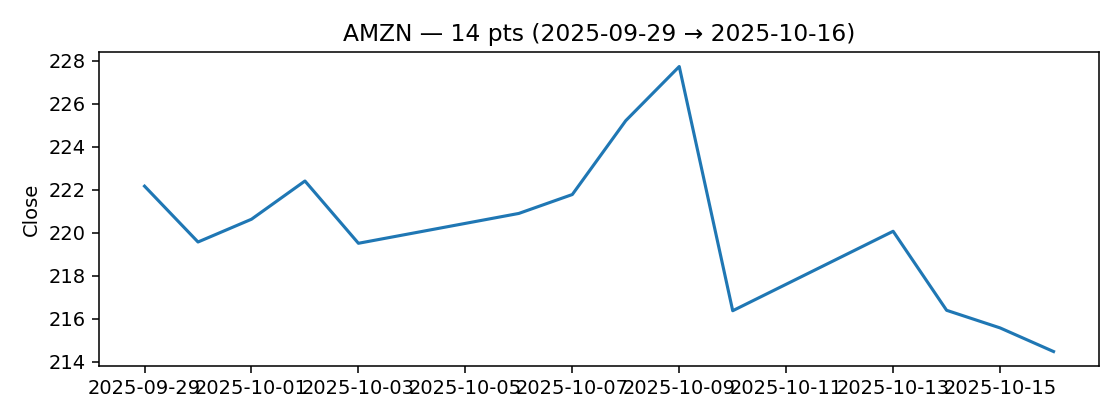
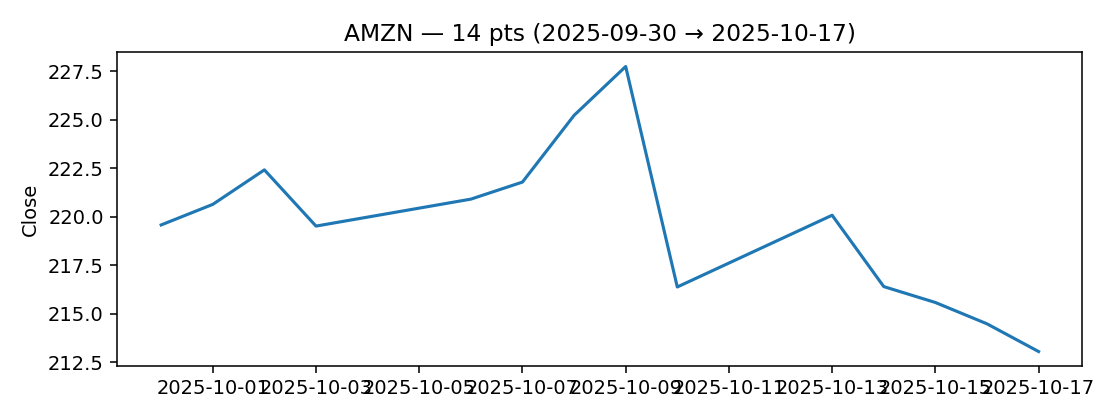
chore: update daily report 2025-10-18 08:37

diff --git a/docs/daily_report.html b/docs/daily_report.html
@@ -108,7 +108,7 @@
   <header>
     <div>
       <h1>Daily Study & News Companion</h1>
-      <div class="sub">2025-10-17 09:00 · TZ: CST</div>
+      <div class="sub">2025-10-18 08:37 · TZ: CST</div>
     </div>
     <button class="btn" id="themeBtn">🌓 Tema</button>
   </header>
@@ -150,11 +150,11 @@
           </div>
           <div class="mkt-body">
             <div class="metrics-row">
-          <div class="kv"><span>Last</span><b>214.47</b></div>
-          <div class="kv"><span>d/d</span><b class="down">-3.47%</b></div>
-          <div class="kv"><span>Mín</span><b>214.47</b></div>
+          <div class="kv"><span>Last</span><b>213.04</b></div>
+          <div class="kv"><span>d/d</span><b class="down">-2.97%</b></div>
+          <div class="kv"><span>Mín</span><b>213.04</b></div>
           <div class="kv"><span>Máx</span><b>227.74</b></div>
-          <div class="kv"><span>σ</span><b>3.57</b></div>
+          <div class="kv"><span>σ</span><b>3.96</b></div>
         </div>
             <div class="chart"><img src="charts/AMZN_close.png" alt="AMZN chart" loading="lazy"/></div>
           </div>
@@ -167,11 +167,11 @@
           </div>
           <div class="mkt-body">
             <div class="metrics-row">
-          <div class="kv"><span>Last</span><b>511.61</b></div>
-          <div class="kv"><span>d/d</span><b class="down">-0.58%</b></div>
+          <div class="kv"><span>Last</span><b>513.58</b></div>
+          <div class="kv"><span>d/d</span><b class="down">-0.84%</b></div>
           <div class="kv"><span>Mín</span><b>510.96</b></div>
           <div class="kv"><span>Máx</span><b>528.57</b></div>
-          <div class="kv"><span>σ</span><b>5.21</b></div>
+          <div class="kv"><span>σ</span><b>5.26</b></div>
         </div>
             <div class="chart"><img src="charts/MSFT_close.png" alt="MSFT chart" loading="lazy"/></div>
           </div>
@@ -184,11 +184,11 @@
           </div>
           <div class="mkt-body">
             <div class="metrics-row">
-          <div class="kv"><span>Last</span><b>181.81</b></div>
-          <div class="kv"><span>d/d</span><b class="down">-0.02%</b></div>
+          <div class="kv"><span>Last</span><b>183.22</b></div>
+          <div class="kv"><span>d/d</span><b class="down">-1.80%</b></div>
           <div class="kv"><span>Mín</span><b>179.83</b></div>
           <div class="kv"><span>Máx</span><b>192.57</b></div>
-          <div class="kv"><span>σ</span><b>3.64</b></div>
+          <div class="kv"><span>σ</span><b>3.56</b></div>
         </div>
             <div class="chart"><img src="charts/NVDA_close.png" alt="NVDA chart" loading="lazy"/></div>
           </div>
@@ -201,11 +201,11 @@
           </div>
           <div class="mkt-body">
             <div class="metrics-row">
-          <div class="kv"><span>Last</span><b>428.75</b></div>
-          <div class="kv"><span>d/d</span><b class="down">-3.26%</b></div>
+          <div class="kv"><span>Last</span><b>439.31</b></div>
+          <div class="kv"><span>d/d</span><b class="down">-1.22%</b></div>
           <div class="kv"><span>Mín</span><b>413.49</b></div>
           <div class="kv"><span>Máx</span><b>459.46</b></div>
-          <div class="kv"><span>σ</span><b>10.77</b></div>
+          <div class="kv"><span>σ</span><b>10.66</b></div>
         </div>
             <div class="chart"><img src="charts/TSLA_close.png" alt="TSLA chart" loading="lazy"/></div>
           </div>
@@ -218,11 +218,11 @@
           </div>
           <div class="mkt-body">
             <div class="metrics-row">
-          <div class="kv"><span>Last</span><b>660.64</b></div>
-          <div class="kv"><span>d/d</span><b class="down">-0.46%</b></div>
+          <div class="kv"><span>Last</span><b>664.39</b></div>
+          <div class="kv"><span>d/d</span><b class="down">-0.27%</b></div>
           <div class="kv"><span>Mín</span><b>653.02</b></div>
           <div class="kv"><span>Máx</span><b>673.11</b></div>
-          <div class="kv"><span>σ</span><b>5.15</b></div>
+          <div class="kv"><span>σ</span><b>5.13</b></div>
         </div>
             <div class="chart"><img src="charts/^GSPC_close.png" alt="^GSPC chart" loading="lazy"/></div>
           </div>
@@ -250,6 +250,30 @@
             <ul class="news-list">
               <li class="news-item" data-topic="AI">
                 <span class="dot"></span>
+                <a href="https://www.bloomberg.com/news/articles/2025-10-18/crypto-miners-riding-the-ai-wave-are-leaving-bitcoin-behind" target="_blank" rel="noreferrer">Crypto Miners Riding the AI Wave Are Leaving Bitcoin Behind</a>
+                <div class="meta">2025-10-18 12:00 · <span class="src">Sidhartha Shukla</span></div>
+              </li>
+            
+              <li class="news-item" data-topic="AI">
+                <span class="dot"></span>
+                <a href="https://www.bloomberg.com/news/videos/2025-10-17/wall-street-week-in-it-for-the-long-haul-video" target="_blank" rel="noreferrer">Wall Street Week | Japan Immigration, Race to Self-Driving Trucks, Defense & AI</a>
+                <div class="meta">2025-10-17 23:18 · <span class="src">www.bloomberg.com</span></div>
+              </li>
+            
+              <li class="news-item" data-topic="AI">
+                <span class="dot"></span>
+                <a href="https://www.bloomberg.com/news/articles/2025-10-17/ai-music-generator-suno-in-funding-talks-at-2-billion-valuation" target="_blank" rel="noreferrer">AI Music Generator Suno in Funding Talks at $2 Billion Valuation</a>
+                <div class="meta">2025-10-17 19:45 · <span class="src">Kate Clark, Ashley Carman, Lucas Shaw</span></div>
+              </li>
+            
+              <li class="news-item" data-topic="AI">
+                <span class="dot"></span>
+                <a href="https://www.bloomberg.com/news/articles/2025-10-17/-vikinggpt-helps-hedge-fund-giant-wrestle-with-trade-ideas" target="_blank" rel="noreferrer">‘VikingGPT’ Helps Hedge Fund Giant Wrestle With Trade Ideas</a>
+                <div class="meta">2025-10-17 17:24 · <span class="src">Hema Parmar</span></div>
+              </li>
+            
+              <li class="news-item" data-topic="AI">
+                <span class="dot"></span>
                 <a href="https://www.bloomberg.com/news/articles/2025-10-17/openai-s-deals-with-broadcom-amd-show-how-big-ai-market-can-be" target="_blank" rel="noreferrer">OpenAI’s Deals With Broadcom and AMD Show How Big AI Market Can Be</a>
                 <div class="meta">2025-10-17 10:28 · <span class="src">Carmen Reinicke, Ryan Vlastelica</span></div>
               </li>
@@ -259,30 +283,6 @@
                 <a href="https://www.bloomberg.com/news/articles/2025-10-17/openai-halts-mlk-depictions-in-sora-after-disrespectful-videos" target="_blank" rel="noreferrer">OpenAI Halts Depictions of MLK After ‘Disrespectful’ Videos</a>
                 <div class="meta">2025-10-17 08:54 · <span class="src">Shona Ghosh</span></div>
               </li>
-            
-              <li class="news-item" data-topic="AI">
-                <span class="dot"></span>
-                <a href="https://www.bloomberg.com/news/articles/2025-10-17/nigeria-ai-data-center-projects-draw-in-1-billion-investment" target="_blank" rel="noreferrer">AI Boom Sparks Billion-Dollar Data Center Race in Nigeria</a>
-                <div class="meta">2025-10-17 04:00 · <span class="src">Ruth Olurounbi</span></div>
-              </li>
-            
-              <li class="news-item" data-topic="AI">
-                <span class="dot"></span>
-                <a href="https://www.bloomberg.com/news/newsletters/2025-10-16/why-openai-is-pushing-to-design-its-own-ai-chips" target="_blank" rel="noreferrer">Why OpenAI Is Pushing to Design Its Own AI Chips</a>
-                <div class="meta">2025-10-16 20:32 · <span class="src">Shirin Ghaffary</span></div>
-              </li>
-            
-              <li class="news-item" data-topic="AI">
-                <span class="dot"></span>
-                <a href="https://www.bloomberg.com/news/videos/2025-10-16/bloomberg-tech-10-16-2025-video" target="_blank" rel="noreferrer">TSMC Beats Expectations, Raises Revenue Outlook | Bloomberg Tech 10/16/2025</a>
-                <div class="meta">2025-10-16 20:26 · <span class="src">www.bloomberg.com</span></div>
-              </li>
-            
-              <li class="news-item" data-topic="AI">
-                <span class="dot"></span>
-                <a href="https://www.bloomberg.com/news/articles/2025-10-16/benioff-slammed-by-longtime-vc-ally-over-call-for-troops-in-san-francisco" target="_blank" rel="noreferrer">Benioff Slammed by Longtime VC Ally Over Call for Troops in San Francisco</a>
-                <div class="meta">2025-10-16 20:12 · <span class="src">Biz Carson, Felipe Marques</span></div>
-              </li>
             </ul>
           </div>
         
@@ -291,38 +291,38 @@
             <ul class="news-list">
               <li class="news-item" data-topic="Fintech">
                 <span class="dot"></span>
-                <a href="https://www.bloomberg.com/news/articles/2025-10-17/central-banker-sees-colombia-interest-rate-hike-on-the-table" target="_blank" rel="noreferrer">Central Banker Sees Colombia Interest Rate Hike on the Table</a>
-                <div class="meta">2025-10-17 13:30 · <span class="src">Zijia Song, Oscar Medina</span></div>
+                <a href="https://www.bloomberg.com/news/articles/2025-10-18/traders-spooked-as-bank-lending-risk-puts-stock-market-on-edge" target="_blank" rel="noreferrer">Traders ‘Spooked’ as Bank Lending Risk Puts Stock Market on Edge</a>
+                <div class="meta">2025-10-18 13:00 · <span class="src">Geoffrey Morgan, Georgie McKay</span></div>
               </li>
             
               <li class="news-item" data-topic="Fintech">
                 <span class="dot"></span>
-                <a href="https://www.bloomberg.com/news/videos/2025-10-17/the-opening-trade-10-17-video" target="_blank" rel="noreferrer">Credit Jitters Deepen Bank Losses, Defense Stocks Fall on Trump-Putin Meeting | Opening Trade 10/17</a>
-                <div class="meta">2025-10-17 13:05 · <span class="src">www.bloomberg.com</span></div>
+                <a href="https://www.bloomberg.com/news/articles/2025-10-18/ecb-s-nagel-says-inflation-pretty-much-on-target-for-next-years" target="_blank" rel="noreferrer">ECB’s Nagel Says Inflation Pretty Much on Target for Next Years</a>
+                <div class="meta">2025-10-18 12:59 · <span class="src">Mark Schroers</span></div>
               </li>
             
               <li class="news-item" data-topic="Fintech">
                 <span class="dot"></span>
-                <a href="https://www.bloomberg.com/news/articles/2025-10-17/bank-of-italy-cuts-growth-forecast-for-2026-on-trade-tensions" target="_blank" rel="noreferrer">Bank of Italy Cuts Growth Forecast for 2026 on Trade Tensions</a>
-                <div class="meta">2025-10-17 13:00 · <span class="src">Alessandra Migliaccio</span></div>
+                <a href="https://www.bloomberg.com/news/videos/2025-10-18/larry-summers-dissects-the-us-bet-on-argentina-s-peso-video" target="_blank" rel="noreferrer">Trump's Plan to Rescue Argentina Is 'Unconventional,' Larry Summers Says</a>
+                <div class="meta">2025-10-18 12:05 · <span class="src">www.bloomberg.com</span></div>
               </li>
             
               <li class="news-item" data-topic="Fintech">
                 <span class="dot"></span>
-                <a href="https://www.bloomberg.com/news/videos/2025-10-17/deutsche-bank-ceo-sees-no-credit-deterioration" target="_blank" rel="noreferrer">Deutsche Bank CEO Sees No Credit Deterioration</a>
-                <div class="meta">2025-10-17 12:53 · <span class="src">www.bloomberg.com</span></div>
+                <a href="https://www.bloomberg.com/news/articles/2025-10-18/icici-bank-s-profit-beats-estimates-on-strong-loan-growth" target="_blank" rel="noreferrer">ICICI Bank Beats Profit Forecast, Margins Under Pressure</a>
+                <div class="meta">2025-10-18 10:01 · <span class="src">Siddhi Nayak</span></div>
               </li>
             
               <li class="news-item" data-topic="Fintech">
                 <span class="dot"></span>
-                <a href="https://www.bloomberg.com/news/articles/2025-10-17/france-pushes-europe-to-delay-bank-trading-capital-rules-again" target="_blank" rel="noreferrer">France Pushes EU to Delay Bank Trading Capital Rules Again</a>
-                <div class="meta">2025-10-17 10:03 · <span class="src">Claudia Cohen, Laura Noonan</span></div>
+                <a href="https://www.bloomberg.com/news/articles/2025-10-18/hdfc-bank-s-profit-tops-estimates-on-healthy-loan-growth" target="_blank" rel="noreferrer">HDFC Bank’s Profit Tops Estimates Despite Margin Pressure</a>
+                <div class="meta">2025-10-18 09:14 · <span class="src">Siddhi Nayak</span></div>
               </li>
             
               <li class="news-item" data-topic="Fintech">
                 <span class="dot"></span>
-                <a href="https://www.bloomberg.com/news/articles/2025-10-16/stock-market-today-dow-s-p-live-updates" target="_blank" rel="noreferrer">Stocks Rise as Trump Soothes Wall Street Nerves: Market Wrap</a>
-                <div class="meta">2025-10-16 22:24 · <span class="src">Rita Nazareth</span></div>
+                <a href="https://www.bloomberg.com/news/articles/2025-10-17/funds-sue-lingerie-firm-and-trustee-in-uk-over-soured-debt-deal" target="_blank" rel="noreferrer">Funds Sue Lingerie Firm, Trustee in UK Over Soured Debt Deal</a>
+                <div class="meta">2025-10-17 16:23 · <span class="src">Giulia Morpurgo</span></div>
               </li>
             </ul>
           </div>
@@ -332,38 +332,38 @@
             <ul class="news-list">
               <li class="news-item" data-topic="General">
                 <span class="dot"></span>
-                <a href="https://www.bloomberg.com/news/videos/2025-10-17/trump-calls-threatened-high-tariffs-on-china-not-sustainable" target="_blank" rel="noreferrer">Trump Says Threatened Tariffs on China ‘Not Sustainable’</a>
-                <div class="meta">2025-10-17 13:28 · <span class="src">www.bloomberg.com</span></div>
+                <a href="https://www.bloomberg.com/news/articles/2025-10-18/sold-out-in-india-panic-in-london-how-the-silver-market-broke" target="_blank" rel="noreferrer">Sold Out in India, Panic in London: How the Silver Market Broke</a>
+                <div class="meta">2025-10-18 12:42 · <span class="src">Sybilla Gross, Preeti Soni, Jack Ryan, Yvonne Yue Li, Jack Farchy</span></div>
               </li>
             
               <li class="news-item" data-topic="General">
                 <span class="dot"></span>
-                <a href="https://www.bloomberg.com/news/articles/2025-10-17/fed-s-policy-benchmark-rate-rises-for-third-time-in-a-month" target="_blank" rel="noreferrer">Fed’s Policy Benchmark Rate Rises for Third Time in a Month</a>
-                <div class="meta">2025-10-17 13:14 · <span class="src">Alex Harris</span></div>
+                <a href="https://www.bloomberg.com/news/newsletters/2025-10-18/larry-summers-on-currency-intervention-and-dan-driscoll-on-the-future-of-war" target="_blank" rel="noreferrer">Defending the Argentine Peso and the Homeland</a>
+                <div class="meta">2025-10-18 12:00 · <span class="src">David Westin</span></div>
               </li>
             
               <li class="news-item" data-topic="General">
                 <span class="dot"></span>
-                <a href="https://www.bloomberg.com/news/articles/2025-10-17/wall-street-races-to-sell-risky-etfs-as-crypto-crash-hits-retail" target="_blank" rel="noreferrer">Wall Street Races to Sell Risky ETFs as Crypto Crash Hits Retail</a>
-                <div class="meta">2025-10-17 13:04 · <span class="src">Isabelle Lee</span></div>
+                <a href="https://www.bloomberg.com/news/articles/2025-10-18/argentina-ceos-strive-to-surf-milei-volatility-at-annual-retreat" target="_blank" rel="noreferrer">Argentina CEOs Strive to Surf Milei Volatility at Annual Retreat</a>
+                <div class="meta">2025-10-18 12:00 · <span class="src">Jonathan Gilbert</span></div>
               </li>
             
               <li class="news-item" data-topic="General">
                 <span class="dot"></span>
-                <a href="https://www.bloomberg.com/news/articles/2025-10-17/us-initial-jobless-claims-fell-last-week-state-data-suggests" target="_blank" rel="noreferrer">US Initial Jobless Claims Fell Last Week, State Data Suggest</a>
-                <div class="meta">2025-10-17 12:59 · <span class="src">Nazmul Ahasan</span></div>
+                <a href="https://www.bloomberg.com/news/articles/2025-10-18/oil-s-long-awaited-surplus-arrives-on-billion-barrel-flotilla" target="_blank" rel="noreferrer">Oil’s Long-Awaited Surplus Arrives on Billion-Barrel Flotilla</a>
+                <div class="meta">2025-10-18 11:00 · <span class="src">Grant Smith, Yongchang Chin, Archie Hunter, Mia Gindis</span></div>
               </li>
             
               <li class="news-item" data-topic="General">
                 <span class="dot"></span>
-                <a href="https://www.bloomberg.com/news/articles/2025-10-17/bessent-says-us-treasury-bought-argentine-pesos-at-parallel-rate" target="_blank" rel="noreferrer">Argentina’s Peso Falls After US Treasury Intervenes Again</a>
-                <div class="meta">2025-10-17 12:58 · <span class="src">Patrick Gillespie, Nicolle Yapur</span></div>
+                <a href="https://www.bloomberg.com/news/articles/2025-10-18/uk-chancellor-considering-isa-share-ownership-overhaul-ft-says" target="_blank" rel="noreferrer">UK Chancellor Considering ISA Share Ownership Overhaul, FT Says</a>
+                <div class="meta">2025-10-18 09:45 · <span class="src">Natasha Voase</span></div>
               </li>
             
               <li class="news-item" data-topic="General">
                 <span class="dot"></span>
-                <a href="https://www.bloomberg.com/news/articles/2025-10-17/arthur-hayes-family-office-seeks-250-million-for-buyout-fund" target="_blank" rel="noreferrer">Arthur Hayes’ Family Office Seeks $250 Million for Buyout Fund</a>
-                <div class="meta">2025-10-17 12:30 · <span class="src">Suvashree Ghosh</span></div>
+                <a href="https://www.bloomberg.com/news/articles/2025-10-18/sweden-s-stegra-faces-funding-crunch-in-echo-of-northvolt" target="_blank" rel="noreferrer">Sweden’s Stegra Faces Funding Crunch in Echo of Northvolt</a>
+                <div class="meta">2025-10-18 08:25 · <span class="src">Lars Paulsson, Evelina Youcefi, Charles Daly, Rafaela Lindeberg</span></div>
               </li>
             </ul>
           </div>
@@ -373,26 +373,20 @@
             <ul class="news-list">
               <li class="news-item" data-topic="Machine Learning">
                 <span class="dot"></span>
-                <a href="https://www.bloomberg.com/news/videos/2025-10-17/ecb-s-sleijpen-sees-policy-in-a-good-place-video" target="_blank" rel="noreferrer">ECB’s Sleijpen Sees Policy ‘In a Good Place’</a>
-                <div class="meta">2025-10-17 14:10 · <span class="src">www.bloomberg.com</span></div>
+                <a href="https://www.bloomberg.com/news/articles/2025-10-18/china-rare-earth-product-exports-shrink-as-us-frictions-flare" target="_blank" rel="noreferrer">China Rare-Earth Product Exports Shrink as US Frictions Flare</a>
+                <div class="meta">2025-10-18 04:14 · <span class="src">Jessica Zhou</span></div>
               </li>
             
               <li class="news-item" data-topic="Machine Learning">
                 <span class="dot"></span>
-                <a href="https://www.bloomberg.com/news/articles/2025-10-17/giorgetti-says-italian-banks-can-help-pay-for-meloni-s-tax-cuts" target="_blank" rel="noreferrer">Giorgetti Says Italian Banks Can Help Pay for Meloni’s Tax Cuts</a>
-                <div class="meta">2025-10-17 13:15 · <span class="src">Donato Paolo Mancini</span></div>
+                <a href="https://www.bloomberg.com/news/videos/2025-10-17/women-money-power-a-shifting-world-order" target="_blank" rel="noreferrer">Women, Money & Power: A Shifting World Order</a>
+                <div class="meta">2025-10-17 23:01 · <span class="src">www.bloomberg.com</span></div>
               </li>
             
               <li class="news-item" data-topic="Machine Learning">
                 <span class="dot"></span>
-                <a href="https://www.bloomberg.com/news/videos/2025-10-17/regional-bank-issues-may-lead-to-consolidation-sonders-video" target="_blank" rel="noreferrer">Regional Bank Issues May Lead to Consolidation: Sonders</a>
-                <div class="meta">2025-10-17 12:27 · <span class="src">www.bloomberg.com</span></div>
-              </li>
-            
-              <li class="news-item" data-topic="Machine Learning">
-                <span class="dot"></span>
-                <a href="https://www.bloomberg.com/news/articles/2025-10-17/blackrock-backed-suez-halts-process-to-sell-chinese-water-assets-sources-say" target="_blank" rel="noreferrer">BlackRock-Backed Suez Halts Process to Sell Chinese Water Assets, Sources Say</a>
-                <div class="meta">2025-10-17 11:53 · <span class="src">Francois de Beaupuy, Manuel Baigorri, Vinicy Chan</span></div>
+                <a href="https://www.bloomberg.com/news/articles/2025-10-17/airline-aeromexico-holders-seek-314-million-in-ipo-placement" target="_blank" rel="noreferrer">Aeromexico, Holders Seek $314 Million in IPO, Placement</a>
+                <div class="meta">2025-10-17 22:32 · <span class="src">Kelsey Butler, Bailey Lipschultz</span></div>
               </li>
             
               <li class="news-item" data-topic="Machine Learning">
@@ -403,8 +397,14 @@
             
               <li class="news-item" data-topic="Machine Learning">
                 <span class="dot"></span>
-                <a href="https://www.bloomberg.com/news/articles/2025-10-17/ecb-agrees-policy-is-in-good-place-as-thoughts-on-future-diverge" target="_blank" rel="noreferrer">ECB Agrees Policy Is in Good Place as Thoughts on Future Diverge</a>
-                <div class="meta">2025-10-17 04:01 · <span class="src">Alexander Weber, Mark Schroers, Jana Randow</span></div>
+                <a href="https://www.bloomberg.com/news/newsletters/2025-10-17/solaris-ties-its-future-to-xai-s-success-in-the-ai-boom" target="_blank" rel="noreferrer">Solaris Ties Its Future to xAI’s Success in the AI Boom</a>
+                <div class="meta">2025-10-17 11:02 · <span class="src">Carmen Arroyo</span></div>
+              </li>
+            
+              <li class="news-item" data-topic="Machine Learning">
+                <span class="dot"></span>
+                <a href="https://www.bloomberg.com/news/articles/2025-10-17/japan-gets-highest-yielding-yen-bond-this-year-with-rakuten-deal" target="_blank" rel="noreferrer">Rakuten Delivers Japan’s Highest-Yielding Yen Bond This Year</a>
+                <div class="meta">2025-10-17 01:18 · <span class="src">Takahiko Hyuga</span></div>
               </li>
             </ul>
           </div>
@@ -414,7 +414,7 @@
     </main>
   </div>
 
-  <footer>Generado localmente · 2025-10-17 09:00</footer>
+  <footer>Generado localmente · 2025-10-18 08:37</footer>
 
   <script>
     'use strict';
